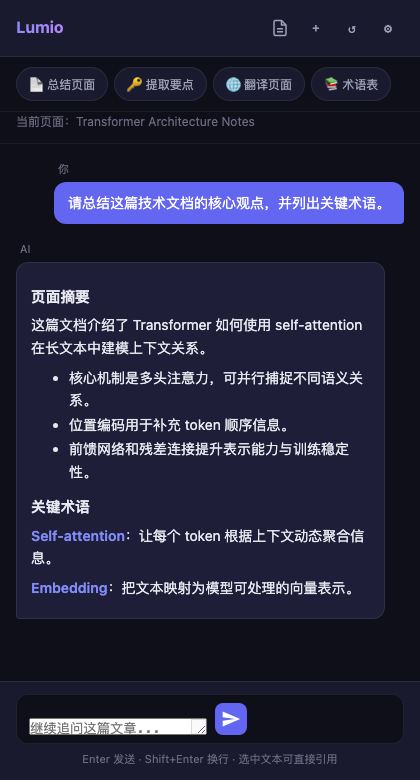
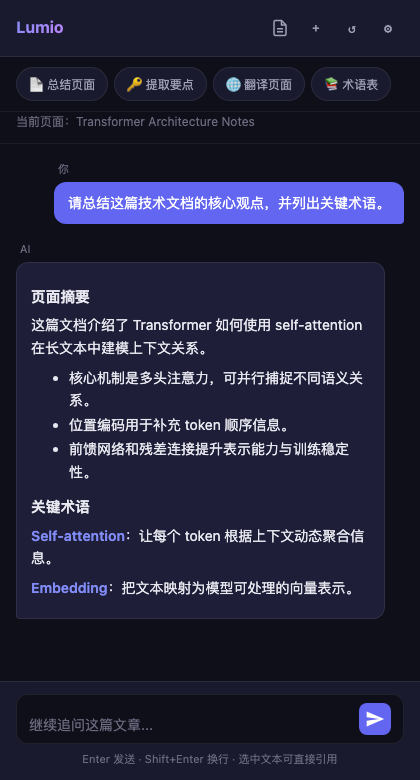
Improve README screenshots

Changed region(s): [[0.0619, 0.8923, 0.5881, 0.9538], [0.8357, 0.8923, 0.9286, 0.9538]]

diff --git a/tools/screenshot-translate.html b/tools/screenshot-translate.html
@@ -1,0 +1,127 @@
+<!DOCTYPE html>
+<html lang="zh-CN">
+<head>
+  <meta charset="UTF-8">
+  <meta name="viewport" content="width=device-width, initial-scale=1.0">
+  <title>Lumio Translation Screenshot</title>
+  <link rel="stylesheet" href="../sidepanel/sidepanel.css">
+  <style>
+    html, body {
+      width: 420px;
+      height: 780px;
+    }
+
+    body {
+      background: #0f0f1a;
+    }
+
+    .source-card {
+      margin: 14px 16px 0;
+      padding: 12px;
+      border: 1px solid var(--border);
+      border-radius: var(--radius);
+      background: var(--bg-secondary);
+    }
+
+    .source-label {
+      color: var(--text-muted);
+      font-size: 12px;
+      margin-bottom: 6px;
+    }
+
+    .source-text {
+      color: var(--text-primary);
+      line-height: 1.45;
+    }
+
+    .messages {
+      min-height: auto;
+      padding-top: 10px;
+      gap: 12px;
+    }
+
+    .message-bubble p {
+      margin-bottom: 8px;
+    }
+
+    .translation-table {
+      display: grid;
+      gap: 6px;
+      margin-top: 8px;
+    }
+
+    .term-row {
+      padding: 7px 10px;
+      border: 1px solid var(--border-light);
+      border-radius: var(--radius-sm);
+      background: rgba(255, 255, 255, 0.03);
+    }
+
+    .term-row strong {
+      color: var(--accent-light);
+    }
+  </style>
+</head>
+<body>
+  <div class="header">
+    <div class="header-left">
+      <h1>Lumio</h1>
+    </div>
+    <div class="header-actions">
+      <button class="header-btn" title="总结当前页面">□</button>
+      <button class="header-btn" title="新建对话">+</button>
+      <button class="header-btn" title="对话历史">↺</button>
+      <button class="header-btn" title="设置">⚙</button>
+    </div>
+  </div>
+
+  <div class="quick-actions">
+    <button class="quick-btn">📄 总结页面</button>
+    <button class="quick-btn">🔑 提取要点</button>
+    <button class="quick-btn">🌐 翻译页面</button>
+    <button class="quick-btn">📚 术语表</button>
+  </div>
+
+  <div class="source-card">
+    <div class="source-label">引用的英文原文</div>
+    <div class="source-text">
+      Self-attention lets each token compare itself with every other token in the sequence, making it easier to capture long-range dependencies.
+    </div>
+  </div>
+
+  <div class="chat-container">
+    <div class="messages">
+      <div class="message user">
+        <div class="message-label">你</div>
+        <div class="message-bubble">请将这段英文翻译成中文，并保留关键技术术语。</div>
+      </div>
+
+      <div class="message assistant">
+        <div class="message-label">AI</div>
+        <div class="message-bubble">
+          <h3>翻译</h3>
+          <p>自注意力（self-attention）让每个 token 都能与序列中的其他 token 比较，从而更容易捕捉长距离依赖关系（long-range dependencies）。</p>
+          <h3>术语说明</h3>
+          <div class="translation-table">
+            <div class="term-row"><strong>self-attention</strong>：自注意力，用于建模上下文。</div>
+            <div class="term-row"><strong>token</strong>：模型处理文本的基本单位。</div>
+            <div class="term-row"><strong>long-range dependencies</strong>：长距离依赖。</div>
+          </div>
+        </div>
+      </div>
+    </div>
+  </div>
+
+  <div class="input-area">
+    <div class="input-wrapper">
+      <textarea id="chat-input" placeholder="继续追问翻译细节..." rows="1"></textarea>
+      <button class="send-btn" title="发送">
+        <svg width="20" height="20" viewBox="0 0 24 24" fill="currentColor">
+          <path d="M2.01 21L23 12 2.01 3 2 10l15 2-15 2z"/>
+        </svg>
+      </button>
+    </div>
+    <div class="input-hint">保留术语 · 解释上下文 · 支持继续追问</div>
+  </div>
+</body>
+</html>

diff --git a/tools/screenshot-chat.html b/tools/screenshot-chat.html
@@ -90,7 +90,7 @@
 
   <div class="input-area">
     <div class="input-wrapper">
-      <textarea placeholder="继续追问这篇文章..." rows="1"></textarea>
+      <textarea id="chat-input" placeholder="继续追问这篇文章..." rows="1"></textarea>
       <button class="send-btn" title="发送">
         <svg width="20" height="20" viewBox="0 0 24 24" fill="currentColor">
           <path d="M2.01 21L23 12 2.01 3 2 10l15 2-15 2z"/>
